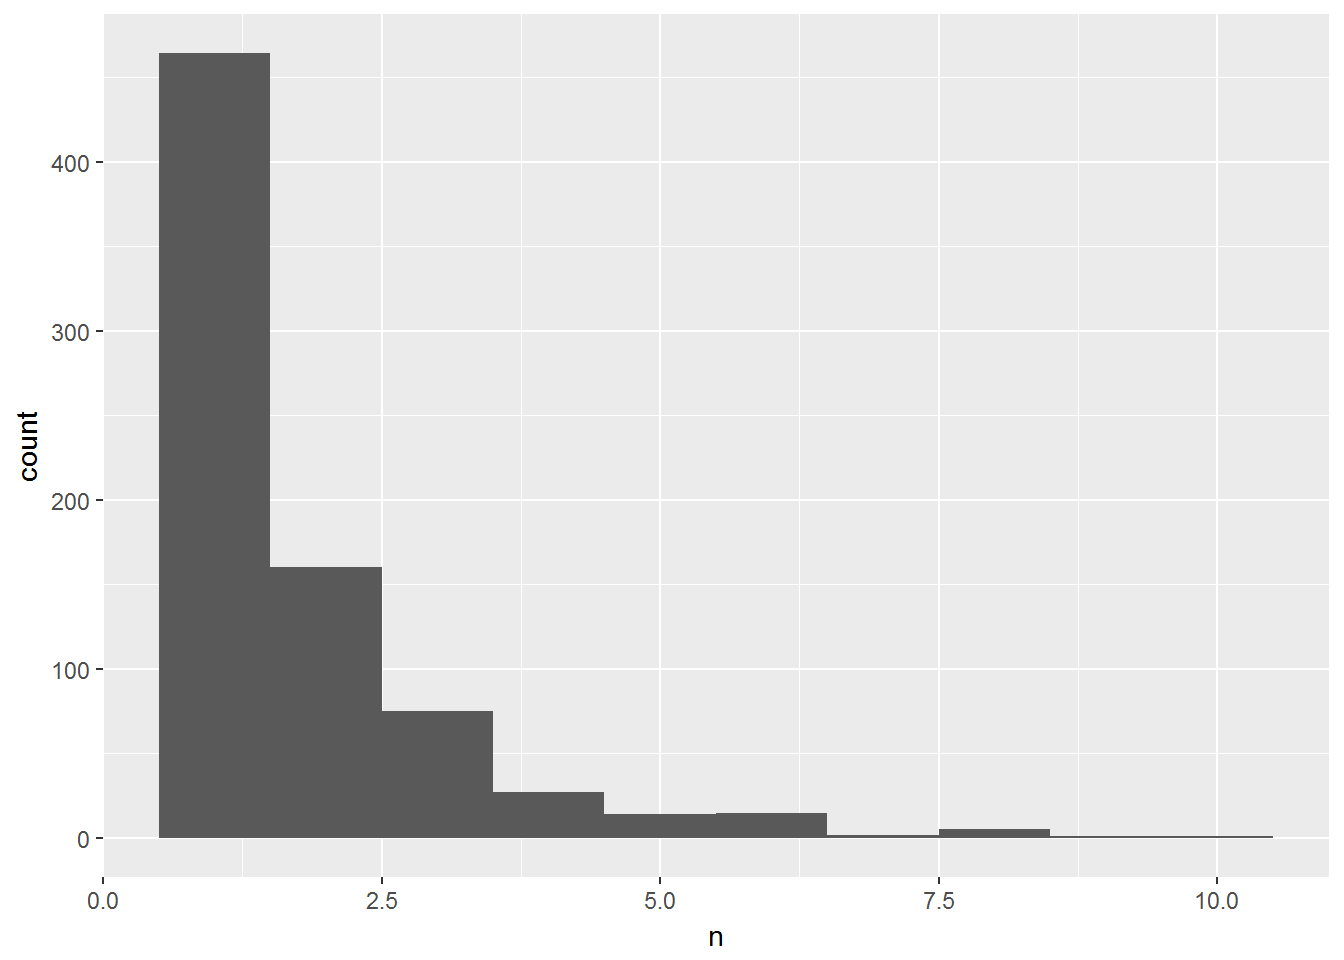
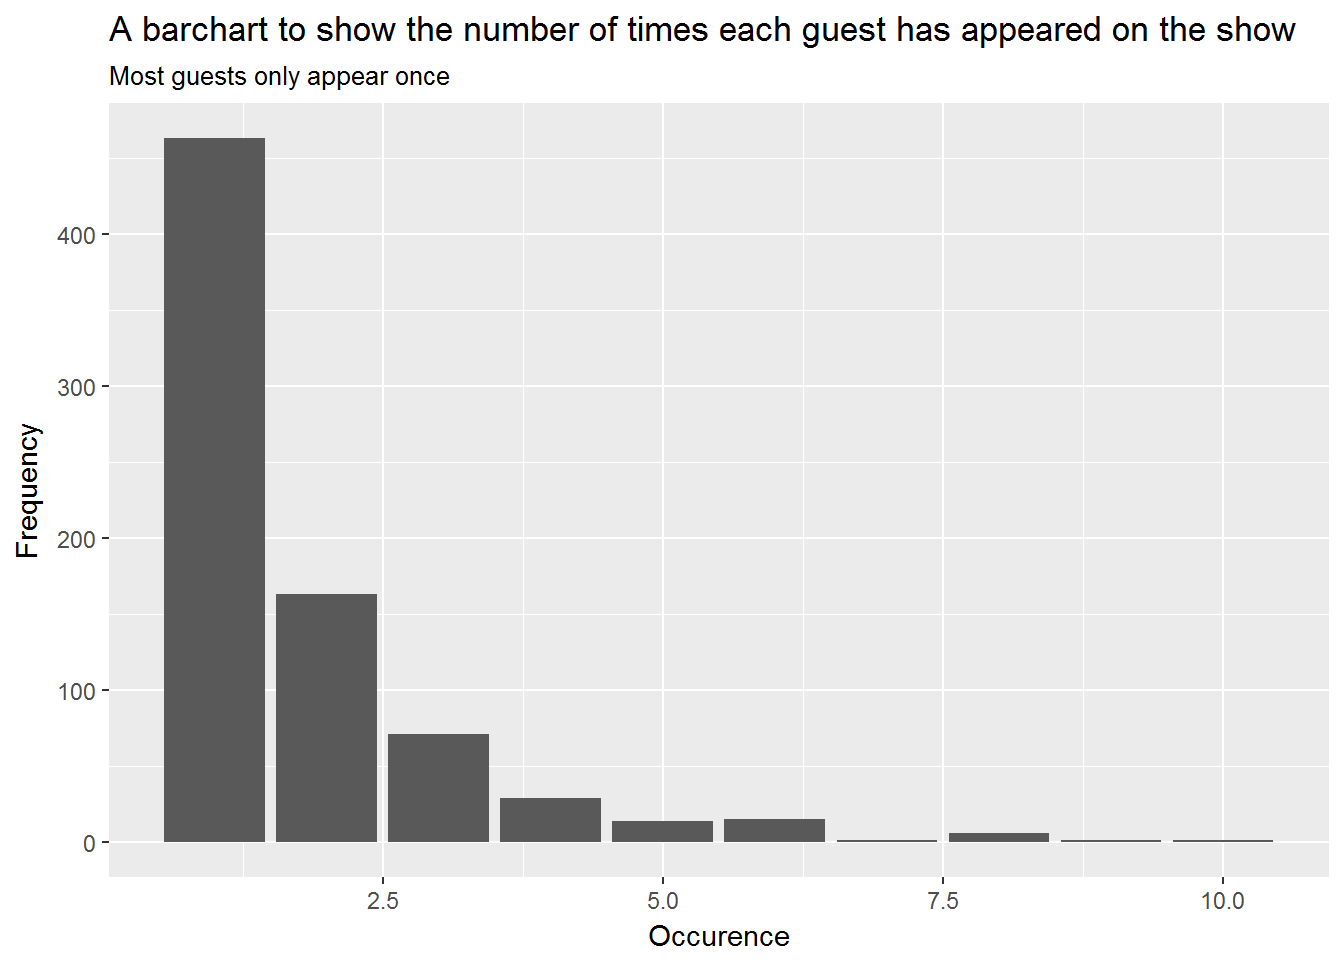
Update post

diff --git a/content/post/2017-10-16-graham-norton-analysis.html b/content/post/2017-10-16-graham-norton-analysis.html
@@ -16,40 +16,15 @@ tags: []
 <p>So I put of Graham Norton. As my girlfriend describes it, “It’s okay if you miss a bit”. Perfect for when you’re half dozing.</p>
 <p>Nicole Kidman was the first guest on this weeks show. At the start, she says “I think I’ve been on here the most of anyone”. That was like drugs to a sniffer dog, even to my tired mind. Now that I’m feeling a little better, let’s see if we can answer it.</p>
 <p><a href="https://en.wikipedia.org/wiki/List_of_The_Graham_Norton_Show_episodes">Wikipedia has a page detailing every episode and it’s guests</a>. We can extract the information from this to get our data for analysis.</p>
-<pre class="r"><code>library(rvest)</code></pre>
-<pre><code>## Warning: package &#39;rvest&#39; was built under R version 3.3.2</code></pre>
-<pre><code>## Loading required package: xml2</code></pre>
-<pre><code>## Warning: package &#39;xml2&#39; was built under R version 3.3.3</code></pre>
-<pre class="r"><code>library(purrr)</code></pre>
-<pre><code>## Warning: package &#39;purrr&#39; was built under R version 3.3.3</code></pre>
-<pre><code>## 
-## Attaching package: &#39;purrr&#39;</code></pre>
-<pre><code>## The following object is masked from &#39;package:rvest&#39;:
-## 
-##     pluck</code></pre>
-<pre class="r"><code>library(dplyr)</code></pre>
-<pre><code>## Warning: package &#39;dplyr&#39; was built under R version 3.3.3</code></pre>
-<pre><code>## 
-## Attaching package: &#39;dplyr&#39;</code></pre>
-<pre><code>## The following objects are masked from &#39;package:stats&#39;:
-## 
-##     filter, lag</code></pre>
-<pre><code>## The following objects are masked from &#39;package:base&#39;:
-## 
-##     intersect, setdiff, setequal, union</code></pre>
-<pre class="r"><code>library(stringr)</code></pre>
-<pre><code>## Warning: package &#39;stringr&#39; was built under R version 3.3.3</code></pre>
-<pre class="r"><code>library(tidyr)</code></pre>
-<pre><code>## Warning: package &#39;tidyr&#39; was built under R version 3.3.3</code></pre>
-<pre class="r"><code>library(ggplot2)</code></pre>
-<pre><code>## Warning: package &#39;ggplot2&#39; was built under R version 3.3.3</code></pre>
-<pre class="r"><code>library(lubridate)</code></pre>
-<pre><code>## 
-## Attaching package: &#39;lubridate&#39;</code></pre>
-<pre><code>## The following object is masked from &#39;package:base&#39;:
-## 
-##     date</code></pre>
-<pre class="r"><code>page &lt;- read_html(&quot;https://en.wikipedia.org/wiki/List_of_The_Graham_Norton_Show_episodes&quot;)
+<pre class="r"><code>library(rvest)
+library(purrr)
+library(dplyr)
+library(stringr)
+library(tidyr)
+library(ggplot2)
+library(lubridate)
+
+page &lt;- read_html(&quot;https://en.wikipedia.org/wiki/List_of_The_Graham_Norton_Show_episodes&quot;)
 
 #list all of the selectors
 selector_guests &lt;- &quot;.summary&quot;
@@ -83,15 +58,24 @@ head(df)</code></pre>
 ## 6    22 March 2007 (2007-03-22)
 ## # ... with 3 more variables: guests &lt;chr&gt;, episode_no &lt;chr&gt;,
 ## #   overall_episode_no &lt;chr&gt;</code></pre>
-<p>We have the data in it’s rough form, but we’ll need to extract the names into something we can work with. Currently they are in the form of “guest1, guest2, … and guest3”. We’ll need to split the string on <code>&quot;,&quot;</code> and <code>&quot;and&quot;</code>, then unnest our new datadframe to create a record for every guest on the show</p>
+<p>We have the data in it’s rough form, but we’ll need to extract the names into something we can work with. Currently they are in the form of <code>&quot;guest1, guest2, ..., guest(n-1) and guest(n)&quot;</code>. We’ll need to split the string on <code>&quot;,&quot;</code> and <code>&quot;and&quot;</code>, then unnest our new dataframe to create a record for every guest appearance on the show.</p>
 <pre class="r"><code>tidy_df &lt;- df %&gt;%
+  
+  #Remove &quot;compilation show episodes. These have no guests&quot;
   filter(guests != &quot;Compilation show&quot;) %&gt;%
+  
+  # Extract the air date and parse it. Wikipedia has a strange format for these dates
   mutate(air_date_tidy = str_extract(air_date, &quot;(.{1,2}\\W[A-z]+\\W\\d{4})&quot;) %&gt;% dmy(),
+         
+         # Split the listing the guests on &quot;,&quot; or &quot;and&quot;
          guests = str_split(guests, &quot;,|\\band\\b&quot;)) %&gt;%
+  
   tidyr::unnest() %&gt;%
-  mutate(guests = str_to_lower(guests) %&gt;% str_replace_all(&quot;pilot|\\(|\\)&quot;, &quot;&quot;) %&gt;% str_trim())</code></pre>
-<pre><code>## Warning: package &#39;bindrcpp&#39; was built under R version 3.3.3</code></pre>
-<pre class="r"><code>#filename &lt;- paste(&quot;output-data/&quot;, &quot;graham-norton-guests_&quot;, Sys.Date(), &quot;.csv&quot;, sep = &quot;&quot;)
+  
+  # Tidy up the names so that they are in a uniform format
+  mutate(guests = str_to_lower(guests) %&gt;% str_replace_all(&quot;pilot|\\(|\\)&quot;, &quot;&quot;) %&gt;% str_trim())
+
+#filename &lt;- paste(&quot;output-data/&quot;, &quot;graham-norton-guests_&quot;, Sys.Date(), &quot;.csv&quot;, sep = &quot;&quot;)
 #write.csv(tidy_df, file = filename)
 
 head(tidy_df)</code></pre>
@@ -110,16 +94,17 @@ head(tidy_df)</code></pre>
   count(guests) %&gt;%
   arrange(desc(n)) %&gt;%
   top_n(5, n)</code></pre>
-<pre><code>## # A tibble: 7 x 2
+<pre><code>## # A tibble: 8 x 2
 ##             guests     n
 ##              &lt;chr&gt; &lt;int&gt;
 ## 1    ricky gervais    10
 ## 2     miranda hart     9
-## 3 daniel radcliffe     8
-## 4      dawn french     8
-## 5   jack whitehall     8
-## 6     james mcavoy     8
-## 7      john bishop     8</code></pre>
+## 3  dame judi dench     8
+## 4 daniel radcliffe     8
+## 5      dawn french     8
+## 6   jack whitehall     8
+## 7     james mcavoy     8
+## 8      john bishop     8</code></pre>
 <p>She’s no where near! How many times has she been on the show?</p>
 <pre class="r"><code>tidy_df %&gt;%
   filter(guests ==&quot;nicole kidman&quot;) %&gt;%
@@ -134,13 +119,31 @@ head(tidy_df)</code></pre>
 <h3>Histogram of Guest frequency</h3>
 <pre class="r"><code>tidy_df %&gt;%
   count(guests) %&gt;%
-  ggplot(aes(x = n)) + geom_histogram(binwidth = 1)</code></pre>
+  ggplot(aes(x = n)) + geom_bar() + labs(x = &quot;Occurence&quot;, y = &quot;Frequency&quot;, title = &quot;A barchart to show the number of times each guest has appeared on the show &quot;, subtitle = &quot;Most guests only appear once&quot;)</code></pre>
 <p><img src="/post/2017-10-16-graham-norton-analysis_files/figure-html/unnamed-chunk-5-1.png" width="672" /></p>
+<pre class="r"><code>tidy_df %&gt;%
+  count(guests) %&gt;%
+  group_by(n) %&gt;%
+  summarise(count = n())</code></pre>
+<pre><code>## # A tibble: 10 x 2
+##        n count
+##    &lt;int&gt; &lt;int&gt;
+##  1     1   463
+##  2     2   163
+##  3     3    71
+##  4     4    29
+##  5     5    14
+##  6     6    15
+##  7     7     1
+##  8     8     6
+##  9     9     1
+## 10    10     1</code></pre>
 </div>
 <div id="number-of-distinct-guests" class="section level3">
-<h3>Number of distinct Guests</h3>
+<h3>Number of distinct guests</h3>
+<p>How many guests has Graham Norton had?</p>
 <pre class="r"><code>nrow(tidy_df)</code></pre>
-<pre><code>## [1] 1350</code></pre>
+<pre><code>## [1] 1352</code></pre>
 <pre class="r"><code>tidy_df %&gt;%
   mutate(guests = str_trim(guests) %&gt;% str_to_lower()) %&gt;%
   distinct(guests) %&gt;%
@@ -155,7 +158,7 @@ head(tidy_df)</code></pre>
 <pre class="r"><code>tidy_df %&gt;%
   count(overall_episode_no) %&gt;%
   arrange(desc(n))</code></pre>
-<pre><code>## # A tibble: 326 x 2
+<pre><code>## # A tibble: 327 x 2
 ##    overall_episode_no     n
 ##                 &lt;chr&gt; &lt;int&gt;
 ##  1                206    14
@@ -164,11 +167,11 @@ head(tidy_df)</code></pre>
 ##  4                171     8
 ##  5                313     8
 ##  6                240     7
-##  7                246     7
-##  8                298     7
-##  9                103     6
-## 10                135     6
-## # ... with 316 more rows</code></pre>
+##  7                298     7
+##  8                103     6
+##  9                135     6
+## 10                189     6
+## # ... with 317 more rows</code></pre>
 <pre class="r"><code>tidy_df %&gt;%
   filter(overall_episode_no == 206)</code></pre>
 <pre><code>## # A tibble: 14 x 5
